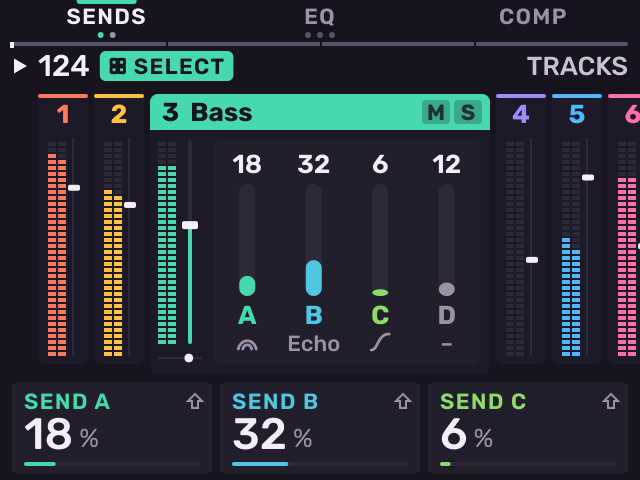
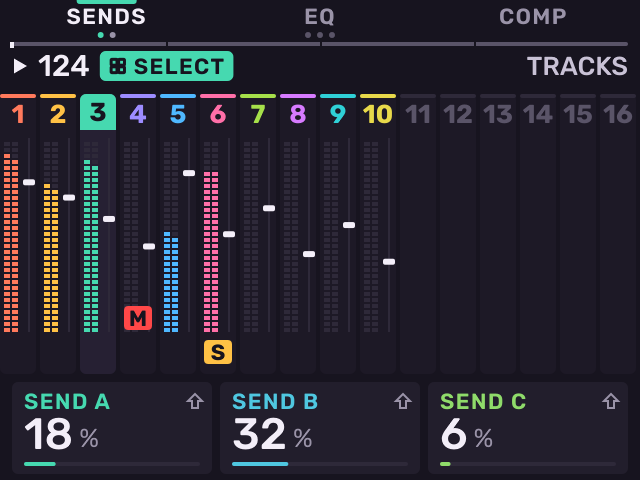
feat(melodee): the mixer opens on strips of the whole row; Plus held shows the card, Minus held the strips

diff --git a/src/melodee/pages/mixer_page.cpp b/src/melodee/pages/mixer_page.cpp
@@ -1,7 +1,9 @@
 // SPDX-License-Identifier: AGPL-3.0-only
 // Copyright (C) 2026 Kerem Kilic (Ellic Studio)
-// The mixer (docs/MIXER_PLAN.md; Pad FX + Knob FX): the channels in a row, the selected one a wide card in the middle,
-// its neighbours narrow strips either side (number, stereo meter, level). The card: name, mute and solo, a slim meter
+// The mixer (docs/MIXER_PLAN.md; Pad FX + Knob FX). It opens on the strips: every channel of the row side by side from
+// the left, as wide as the row lets them be, the selected one lit (number, stereo meter, level, M and S). Plus held:
+// the card view, the selected one a wide card in the middle, its neighbours narrow strips either side (number, stereo
+// meter, level); Minus held: the strips again (shell/mixer_channels.h MixerViewHold). The card: name, mute and solo, a slim meter
 // and its fader, and one block, the one B1-B3 light: SENDS (four sends and what each bus holds), EQ (nine bands as a
 // curve, the three in hand lit; B2 again steps LOW, MID, HIGH) or COMP (its curve and what it took off of late).
 // K1-K3 turn the lit block (Shift: its second row), the fader the level. A pad or the wheel pick the channel; Minus /
@@ -122,6 +124,50 @@ void strip(Paint& p, const Snapshot& s, const Channel& ch, float x) {
     const float at = my + mh * (1 - std::clamp(ch.level, 0.0f, 1.0f));
     p.fill(x + 17, my, 1, mh, colour::line);
     p.fill(x + 15, at - 1.5f, 6, 3, colour::text, 1);
+}
+
+// The strips view's channel: its number (on its colour when it is the one in hand, the strip raised), its stereo
+// meter, where its level sits, and M (over the meter a mute leaves dark) and S under it when on. `w` 18 px for the
+// sixteen tracks, 20 for the second row.
+void lane(Paint& p, const Snapshot& s, const Channel& ch, float x, float w, bool here) {
+    p.fill(x, top, w, bottom - top + 5, here ? colour::raised : colour::panel, 3);
+    if (here) {
+        p.fill(x, top, w, head_h, ch.used ? ch.colour : colour::line, 3);
+        p.fill(x, top + head_h - 4, w, 4, ch.used ? ch.colour : colour::line);
+    } else {
+        p.fill(x, top, w, 2, ch.used ? ch.colour : colour::line, 1);
+    }
+    auto style = plain(here ? (ch.used ? colour::bg : colour::text) : ch.used ? ch.colour : colour::dim, type::body, Weight::Bold);
+    p.text(ch.number, x, top + (here ? 0.0f : 2.0f), w, head_h - (here ? 0.0f : 2.0f), p.fit(ch.number, style, w - 2, type::floor), juce::Justification::centred);
+    if (!ch.used) return;
+    const auto& m = s.strips[ch.n];
+    const float my = top + head_h + 4, mh = bottom - my - 16, mw = w >= 20 ? 4.0f : 3.0f;
+    segments(p, x + 2, my, mw, mh, ch.mute ? 0 : meter_fraction(m.left), ch.colour);
+    segments(p, x + 3 + mw, my, mw, mh, ch.mute ? 0 : meter_fraction(m.right), ch.colour);
+    const float fx = x + w - 4, at = my + mh * (1 - std::clamp(ch.level, 0.0f, 1.0f));
+    p.fill(fx, my, 1, mh, colour::line);
+    p.fill(fx - 2.5f, at - 1.5f, 6, 3, colour::text, 1);
+    auto pill = [&](const char* letter, float y, juce::Colour c) {
+        const float pw = std::min(w - 4, 14.0f);
+        p.fill(x + (w - pw) / 2, y, pw, 12, c, 2);
+        p.text(letter, x + (w - pw) / 2, y, pw, 12, plain(colour::bg, type::small, Weight::Bold), juce::Justification::centred);
+    };
+    if (ch.mute && channel_mutes(ch.kind)) pill("M", my + mh - 13, colour::rec);
+    if (ch.solo && channel_solos(ch.kind)) pill("S", bottom - 12, colour::amber);
+}
+
+// The strips view: the row in view from the left edge, at most 40 px apart (16 tracks 20, the second row 22); the
+// master, last, takes what is left of the screen's width, up to 14 px more, so MST fits.
+void strips_view(Paint& p, const Snapshot& s) {
+    const unsigned count = mixer_row_count(s.ui), at = mixer_row_at(s.ui);
+    if (!count) return;
+    const float pitch = std::min(40.0f, std::floor(float(zone::width) / float(count)));
+    for (unsigned k = 0; k < count; ++k) {
+        const Channel ch = channel_of(s, mixer_row_strip(s.ui, k));
+        const float x = float(k) * pitch;
+        const float w = ch.kind == ChannelKind::Master ? std::min(float(zone::width) - x, pitch + 14) : pitch - 2;
+        lane(p, s, ch, x, w, k == at);
+    }
 }
 
 // The response of a strip's nine bands at `hz`, dB (model/strip.h; the engine's peaks, engine/rbj.h, at 48 kHz).
@@ -409,6 +455,7 @@ void draw(Paint& p, const Snapshot& s) {
     if (!basic) { keys.dots[1] = 3; keys.dot_at[1] = uint8_t(s.ui.mixer_eq_group % 3); }
     if (sends && fx) { keys.dots[0] = 2; keys.dot_at[0] = uint8_t(block == block_fx ? 1 : 0); }
     frame(p, s, keys, h);
+    if (!s.ui.mixer_card) { strips_view(p, s); return; } // as it opens, and Minus held: every channel a strip
     // The neighbours in the row in view, three a side, nearest the card first; then the card over them.
     const int at = int(mixer_row_at(s.ui)), count = int(mixer_row_count(s.ui));
     for (int k = 1; k <= 3; ++k) {
@@ -475,8 +522,9 @@ void soft(Context& c, int key) {
     c.ui.mixer_row = 0;
 }
 
-// Minus / Plus: through what the lit block holds. SENDS and COMP their two rows (−: the first, +: the second, as
-// Shift shows it), EQ its three groups, FX the chain's effects and its plus. The wheel and the pads pick the channel.
+// Minus / Plus, a tap (as it is let go; held, the strips or the card): through what the lit block holds. SENDS and COMP
+// their two rows (−: the first, +: the second, as Shift shows it), EQ its three groups, FX the chain's effects and its
+// plus. The wheel and the pads pick the channel.
 void nudge(Context& c, int way) {
     const unsigned n = mixer_strip(c.ui);
     switch (mixer_block_of(c.ui, channel_kind(n))) {

diff --git a/src/melodee/shell/shell.cpp b/src/melodee/shell/shell.cpp
@@ -299,8 +299,10 @@ void Shell::button(Button b, bool pressed) {
     if (pressed && b != Button::Erase && b != Button::Shift && ui_.erase) ui_.erase_used = true; // Erase + a button: its release erases nothing
     // Erase's release is a press of its own (a tap erases the thing in focus): one undo step, as any page press.
     // The encoder's too: its tap acts when it is let go (held, it opens the MENU: shell/menu.h). And Mute's on the
-    // mixer's FX block (a tap switches the lit effect: shell/mute_mode.h).
-    const bool release_acts = b == Button::Erase || b == Button::WheelPush || (b == Button::Mute && mixer_fx_lit(ui_));
+    // mixer's FX block (a tap switches the lit effect: shell/mute_mode.h), and the mixer's Minus / Plus (held, the
+    // strips or the card: shell/mixer_channels.h).
+    const bool release_acts = b == Button::Erase || b == Button::WheelPush || (b == Button::Mute && mixer_fx_lit(ui_))
+                           || ((b == Button::Minus || b == Button::Plus) && mixer_view.down);
     if ((!pressed && !release_acts) || b == Button::Shift || ((b == Button::Minus || b == Button::Plus) && ui_.shift)) { press(b, pressed); return; }
     PageEdit step(context_, b, false);
     press(b, pressed);
@@ -317,6 +319,10 @@ void Shell::press(Button b, bool pressed) {
     }
     if (b == Button::Minus && !pressed && history_hold.down) { // Shift + Minus let go: a tap undoes one step
         if (history_release(history_hold)) context_.undo();
+        return;
+    }
+    if ((b == Button::Minus || b == Button::Plus) && !pressed && mixer_view.down && (b == Button::Plus) == (mixer_view.way > 0)) {
+        if (const int way = mixer_view_release(mixer_view); way && ui.page == PageId::Mixer) page_spec(ui.page).nudge(context_, way); // a tap
         return;
     }
     if (b == Button::Play && !pressed && ui.fill) context_.fill(false); // Fill lasts while Play is held
@@ -546,14 +552,18 @@ void Shell::press(Button b, bool pressed) {
         if (ui.shift) history_press(history_hold, context_.now); // a tap undoes as it is let go; held, the undo list
         else if (levels_held_cards(*project_, ui)) { ui.levels_used = true; levels_nudge(context_, -1); } // 16 Levels held
         else if (record_track_keys()) context_.record_octave(-1); // the source track's pads, while they play
-        else if (!pad_bank_move(context_, -1)) page.nudge(context_, -1);
+        else if (pad_bank_move(context_, -1)) {}
+        else if (ui.page == PageId::Mixer) mixer_view_press(mixer_view, -1, context_.now); // a tap nudges as it is let go; held, the strips
+        else page.nudge(context_, -1);
         break;
     case Button::Plus:
         if (ui.sample_held && ui.light_show && !ui.shift) { light_style_step(1); break; }
         if (ui.shift) context_.redo();
         else if (levels_held_cards(*project_, ui)) { ui.levels_used = true; levels_nudge(context_, 1); }
         else if (record_track_keys()) context_.record_octave(1);
-        else if (!pad_bank_move(context_, 1)) page.nudge(context_, 1);
+        else if (pad_bank_move(context_, 1)) {}
+        else if (ui.page == PageId::Mixer) mixer_view_press(mixer_view, 1, context_.now); // held, the card
+        else page.nudge(context_, 1);
         break;
     // The pads the tracks (Pad Bank held, a track move or copy): B2 MOVE, B3 COPY, B1 back (shell/pad_bank.h).
     // Note Repeat on: B1-B3 are its rate (Shift: triplets), except on Arp and Chord.

diff --git a/src/melodee/tools.cpp b/src/melodee/tools.cpp
@@ -665,9 +665,9 @@ void stage_midi(Snapshot& s, unsigned group, unsigned sub) {
 // The Looper's previews: L1 playing with an overdub (stretched to another tempo), L2 recording a free take,
 // L3 stopped with a change waiting, L4 armed; peaks drawn as a beat would.
 // The mixer's previews: the project's tracks with their levels, track 3 a bass with EQ and a compressor at work, its
-// sends into buses with effects, every strip's meter playing; `block` the lit one.
+// sends into buses with effects, every strip's meter playing; `block` the lit one, in the card (Plus held).
 void mixer_scene(Snapshot& s, unsigned block) {
-    s.ui.page = PageId::Mixer; s.ui.track = 2; s.ui.mixer_block = uint8_t(block); s.playing = true;
+    s.ui.page = PageId::Mixer; s.ui.track = 2; s.ui.mixer_block = uint8_t(block); s.ui.mixer_card = true; s.playing = true;
     auto& bass = s.project.tracks[2];
     if (!bass.used()) bass.engine = EngineKind::Sampler;
     bass.set_name("Bass");
@@ -1164,7 +1164,10 @@ const Preview previews[] {
      }},
     // The mixer (docs/MIXER_PLAN.md): track 3 in the card, its neighbours' meters; SENDS, EQ (MID in hand), COMP (what
     // it took off of late), Basic (send A alone).
-    {"mixer", [](Shell&, Snapshot& s) { mixer_scene(s, 0); }},
+    {"mixer", [](Shell&, Snapshot& s) { // as it opens: every track a strip, track 4 muted, track 6 soloed
+        mixer_scene(s, 0); s.ui.mixer_card = false; s.project.tracks[3].mix.mute = true; s.project.tracks[5].mix.solo = true;
+    }},
+    {"mixercard", [](Shell&, Snapshot& s) { mixer_scene(s, 0); }},                        // Plus held: track 3's card
     {"mixereq", [](Shell&, Snapshot& s) { mixer_scene(s, 1); s.ui.mixer_eq_group = 1; }},
     {"mixercomp", [](Shell&, Snapshot& s) { mixer_scene(s, 2); }},
     {"mixerbasic", [](Shell&, Snapshot& s) { mixer_scene(s, 0); s.ui.settings.full_features = false; }},
@@ -1186,6 +1189,7 @@ const Preview previews[] {
     }},
     {"mixerfxbus", [](Shell&, Snapshot& s) { mixer_other_scene(s, bus_chain(0), 0); }}, // a bus: B1 is FX alone
     {"mixerrow", [](Shell&, Snapshot& s) { mixer_scene(s, 0); s.ui.mixer_row = 1; }},   // + on SENDS: its second row
+    {"mixerstrips2", [](Shell&, Snapshot& s) { mixer_other_scene(s, strip_sub(1), 0); s.ui.mixer_card = false; }}, // the second row's strips
     {"fxsub", [](Shell&, Snapshot& s) { // Shift + Knob FX on submix 2: its chain
         mixer_other_scene(s, strip_sub(1), 0);
         s.ui.page = PageId::Rack; s.ui.fx_sub = 1;

diff --git a/tests/melodee.cpp b/tests/melodee.cpp
@@ -8503,6 +8503,24 @@ void track_move() {
     // The MIX hub's row (shell/mix_hub.h): MIXER, none (the page stays), and FX along the chains, a kit's pads' last.
     CHECK(mix_next(PageId::Stage, 0, false) == PageId::Mixer && mix_next(PageId::Rack, 1, false) == PageId::Rack);
     CHECK(mix_section(PageId::Mixer) == MixSection::Tracks && mix_next(PageId::Mixer, 2, false) == PageId::Rack);
+    {   // The mixer's view: the strips as it opens; Plus held the card, Minus held the strips, a tap nudges as it is let go.
+        UiState m; m.page = PageId::Mixer;
+        CHECK(!m.mixer_card);
+        MixerViewHold h;
+        mixer_view_press(h, 1, 1000);
+        mixer_view_tick(h, m, 1000 + mixer_view_hold_ms - 1);
+        CHECK(!m.mixer_card && mixer_view_release(h) == 1); // a tap: + moves through the lit block, the view stays
+        mixer_view_press(h, 1, 2000);
+        mixer_view_tick(h, m, 2000 + mixer_view_hold_ms);
+        CHECK(m.mixer_card && mixer_view_release(h) == 0); // held: the card, the release does nothing more
+        mixer_view_press(h, -1, 3000);
+        mixer_view_tick(h, m, 3000 + mixer_view_hold_ms);
+        CHECK(!m.mixer_card && mixer_view_release(h) == 0);
+        mixer_view_press(h, 1, 4000);
+        m.page = PageId::Stage; // another page opened while it is down: let go, the view stays
+        mixer_view_tick(h, m, 4000 + mixer_view_hold_ms);
+        CHECK(!m.mixer_card && !h.down && mixer_view_release(h) == 0);
+    }
     {   // The mixer's second row (shell/mixer_channels.h): submixes on pads 1-8, buses 9-12, the input 15, the master 16.
         UiState m; m.settings.full_features = true; m.page = PageId::Mixer;
         CHECK(pad_other(m, 0) == int(strip_sub(0)) && pad_other(m, 7) == int(strip_sub(7)) && pad_other(m, 8) == int(bus_chain(0)));

diff --git a/src/melodee/shell/mixer_channels.h b/src/melodee/shell/mixer_channels.h
@@ -115,4 +115,28 @@ inline bool mixer_master_comp(const UiState& ui) {
 // The FX block lit, on the channel in hand.
 inline bool mixer_fx_lit(const UiState& ui) { return ui.page == PageId::Mixer && mixer_block_of(ui, channel_kind(mixer_strip(ui))) == block_fx; }
 
+// The mixer's Minus / Plus: a tap moves through the lit block as it is let go; held mixer_view_hold_ms, Plus shows the
+// channel in hand's card and Minus every channel of the row as strips (UiState::mixer_card); the release does no more.
+constexpr uint32_t mixer_view_hold_ms = 400;
+struct MixerViewHold {
+    bool down = false, fired = false;
+    int way = 0; // −1 Minus, +1 Plus
+    uint32_t at = 0;
+};
+inline void mixer_view_press(MixerViewHold& h, int way, uint32_t now) { h = MixerViewHold {true, false, way, now}; }
+// Each pass while it is down: the card or the strips once it has been held long enough. Off the mixer (a page opened
+// while it was down), it is let go.
+inline void mixer_view_tick(MixerViewHold& h, UiState& ui, uint32_t now) {
+    if (h.down && ui.page != PageId::Mixer) h.down = false;
+    if (!h.down || h.fired || now - h.at < mixer_view_hold_ms) return;
+    h.fired = true;
+    ui.mixer_card = h.way > 0;
+}
+// Its button let go: the way to move when it was a tap, else 0.
+inline int mixer_view_release(MixerViewHold& h) {
+    const bool tap = h.down && !h.fired;
+    h.down = false;
+    return tap ? h.way : 0;
+}
+
 } // namespace melodee

diff --git a/src/melodee/shell/shell.h b/src/melodee/shell/shell.h
@@ -6,6 +6,7 @@
 #include "melodee/shell/tap_hold.h"
 #include "melodee/shell/menu.h"
 #include "melodee/shell/history_list.h"
+#include "melodee/shell/mixer_channels.h"
 #include "melodee/shell/card_access.h"
 #include "melodee/shell/update.h"
 #include "melodee/shell/context.h"
@@ -199,6 +200,7 @@ private:
     EncoderHold enc; // the encoder's push: a tap is the page's, a hold opens the MENU (shell/menu.h)
     TapHold tap; // Tap Tempo held: the tempo on the encoder, or the Tempo page (shell/tap_hold.h)
     HistoryHold history_hold; // Shift + Minus: a tap undoes, a hold opens the undo list (shell/history_list.h)
+    MixerViewHold mixer_view; // the mixer's Minus / Plus: a tap nudges, a hold shows the card or the strips (shell/mixer_channels.h)
     // Background save (shell/autosave.h): when a control or a note last came in, and the last save that found no card.
     uint32_t last_input_ = 0, autosave_try_ = 0;
     bool autosave_failed_ = false;

diff --git a/src/melodee/shell/lights.cpp b/src/melodee/shell/lights.cpp
@@ -364,6 +364,7 @@ void Shell::lights(SurfaceLights& lights, uint32_t now) {
     }
     if (encoder_tick(enc, now)) menu_open(context_); // the encoder held: the MENU (shell/menu.h)
     if (history_tick(history_hold, now)) history_open(context_); // Shift + Minus held: the undo list (shell/history_list.h)
+    mixer_view_tick(mixer_view, ui_, now); // the mixer's Plus / Minus held: the card or the strips (shell/mixer_channels.h)
     lesson_tick(context_, now); // a lesson: its kit loaded, or its last step done (shell/lesson_jobs.h)
     if (ui_.levels_sheet && ui_.track != ui_.levels_sheet_track) ui_.levels_sheet = 0; // 16 Levels' FILE or SET (shell/levels_keys.h): another track selected closes it
     // Tap Tempo held half a second with nothing turned: the Tempo page; held on it, back to the page under it.

diff --git a/src/melodee/shell/ui_state.h b/src/melodee/shell/ui_state.h
@@ -378,6 +378,9 @@ struct UiState {
     // B1's two pages on a track or submix (0 SENDS, 1 FX: its chain in the card), and the row − / + put SENDS and
     // COMP on (0 the first, 1 the second, as Shift shows it).
     uint8_t mixer_b1 = 0, mixer_row = 0;
+    // The mixer's view: every channel of the row as a strip as Melodee starts; the channel in hand's card (its
+    // block, the neighbours narrow) once Plus is held, until Minus held (shell/mixer_channels.h MixerViewHold).
+    bool mixer_card = false;
     uint8_t sends_bus = 0;        // the bus in view on Bus (its chain page), and on a kit's Stage SENDS
     // Roadmap P4, the MOD page: modulators (0) or macros (1), the one in hand and its target in hand; the lane a pot
     // turned last (-1 none) and its track, which ADD takes (shell/mod_jobs.h).

diff --git a/docs/guide/mixer-and-effects.md b/docs/guide/mixer-and-effects.md
@@ -43,10 +43,19 @@ mixer. It is also pad 9 (**MIXER**) on the Menu's **GO**.
 
 ![The mixer](../images/screens/mixer.png)
 
-The selected channel is the wide card in the middle. Its neighbours are
-narrow strips left and right, each with its number, a stereo meter and its
-fader. The card shows the channel's name, **M** and **S**, its meter, its
-fader, its pan and one block: the one **B1**–**B3** light.
+The mixer opens on the strips: every channel of the row side by side, each
+with its number, a stereo meter, its fader and **M** or **S** when on. The
+selected channel's strip is lit.
+
+Hold **+** to open the selected channel's card. Hold **−** to go back to the
+strips. The mixer stays on the view you left it on until Melodee restarts.
+
+![The card](../images/screens/mixercard.png)
+
+The card is in the middle. Its neighbours are narrow strips left and right.
+The card shows the channel's name, **M** and **S**, its meter, its fader,
+its pan and one block: the one **B1**–**B3** light. On the strips,
+**K1**–**K3** still set the lit block.
 
 | Key | Block | **K1**–**K3** |
 | --- | --- | --- |
@@ -63,10 +72,12 @@ when you pick another channel.
 | Control | Does |
 | --- | --- |
 | Pads | Select a channel. No sound. An empty track opens its [new track cards](tracks.md#make-a-new-track). |
-| Encoder | Turn: the next channel comes to the middle. |
+| Encoder | Turn: select the next channel. |
 | Encoder push | EQ or COMP: on or off. FX: edit the lit effect on its FX page; on the **+**, the effect picker. |
 | **SHIFT** + encoder push | Name the selected track (see [Naming](projects-and-files.md#naming)). |
-| **−** / **+** | Move through the lit block: SENDS and COMP their first and second row, EQ its three groups, FX its effects and the **+**. |
+| **−** / **+** | Move through the lit block: SENDS and COMP their first and second row, EQ its three groups, FX its effects and the **+**. Acts when you let go. |
+| Hold **+** | The card. |
+| Hold **−** | The strips. |
 | **SHIFT** + **−** / **+** | Undo / redo, as on every page. |
 | Fader | The level of the selected channel. |
 | **PAD BANK** | The tracks, or the submixes, buses, input and master (see [Submixes, buses, input and master](#submixes-buses-input-and-master)). |

diff --git a/docs/MELODEE.md b/docs/MELODEE.md
@@ -375,8 +375,10 @@ beat; the meters show the mix.
     track (none in a new project).
     Picked with a pad (the mixer, Pad Bank held, Song's lanes), the track goes
     back to that page once made.
-- **Mixer** (Pad FX + Knob FX together; the MENU's MIXER; docs/MIXER_PLAN.md, pages/mixer_page.cpp): one channel
-  at a time. The channel in hand is a card in the middle (its name on its colour, M and S, a stereo meter, its fader,
+- **Mixer** (Pad FX + Knob FX together; the MENU's MIXER; docs/MIXER_PLAN.md, pages/mixer_page.cpp): it opens on
+  the strips, every channel of the row side by side from the left (16 tracks 20 px apart, the second row 22; number,
+  stereo meter, level, M / S), the one in hand lit. + held: the card view, one channel at a time; − held: the strips
+  again (kept until a restart; a tap of − / + acts as it is let go). The channel in hand is a card in the middle (its name on its colour, M and S, a stereo meter, its fader,
   its pan and one block), its neighbours narrow strips either side (number, meter, level). Pad Bank steps between two
   rows (shell/mixer_channels.h): the sixteen tracks, and the submixes S1-S8 (pads 1-8), buses A-D (9-12), the input
   (15) and the master (16); Basic has no submixes. Blocks: B1 **SENDS** (K1-K3 A-C; second row PAN, OUTPUT (master or

diff --git a/docs/guide/shortcut-tables.md b/docs/guide/shortcut-tables.md
@@ -20,7 +20,7 @@ Previous: [Exit and troubleshooting](exit-and-troubleshooting.md) · [Contents](
 | **SAMPLE SELECT** | Sample browser on a kit or keygroup track, plug-in picker on a plug-in track, sounds on a MIDI track. Again: closes it. | Save Sample. On the browser: Save Bank. On a MIDI track: Save sound. |
 | **TAP TEMPO** | Tap tempo. Held + encoder: the tempo. Held alone: Tempo page; held again there: closes it. | Metronome Off, On, Rec |
 | Encoder push | Open, or next card (acts when let go). Held: the Menu. | Back |
-| **−** / **+** | Octave, bank, or list | Undo / redo. Hold **SHIFT** + **−**: the undo list. |
+| **−** / **+** | Octave, bank, or list. On the mixer: held, the card (**+**) or the strips (**−**). | Undo / redo. Hold **SHIFT** + **−**: the undo list. |
 | **SAMPLE RECORD** | On a kit: record onto a pad. On a keygroup, plug-in or MIDI track: the PRINT sheet. On an audio track: its **INPUT**. With **SEQ** held: freeze patterns. | Audio Recall |
 | **SEQ RECORD** | Arm or stop recording | Recall |
 | **STOP** | Stop. Again while stopped: all notes off. | All notes off |

diff --git a/docs/QUICKSTART.md b/docs/QUICKSTART.md
@@ -101,8 +101,9 @@ kit). The other tracks stay empty until you choose what they are (see
 [step 7](#7-add-a-plug-in-instrument)).
 
 To mix the tracks, press **PAD FX** and **KNOB FX** together to open the
-mixer. The selected track is the wide card in the middle; its neighbours
-sit left and right. Press a pad or turn the encoder to pick a track. The
+mixer. Every track is a strip; the selected one is lit. Hold **+** to see
+its card (its sends, EQ or compressor), hold **−** to go back to the
+strips. Press a pad or turn the encoder to pick a track. The
 fader sets its level, **K1**–**K3** its sends A–C. Press **B2** for its EQ
 and **B3** for its compressor (see
 [The mixer](guide/mixer-and-effects.md#the-mixer)).
